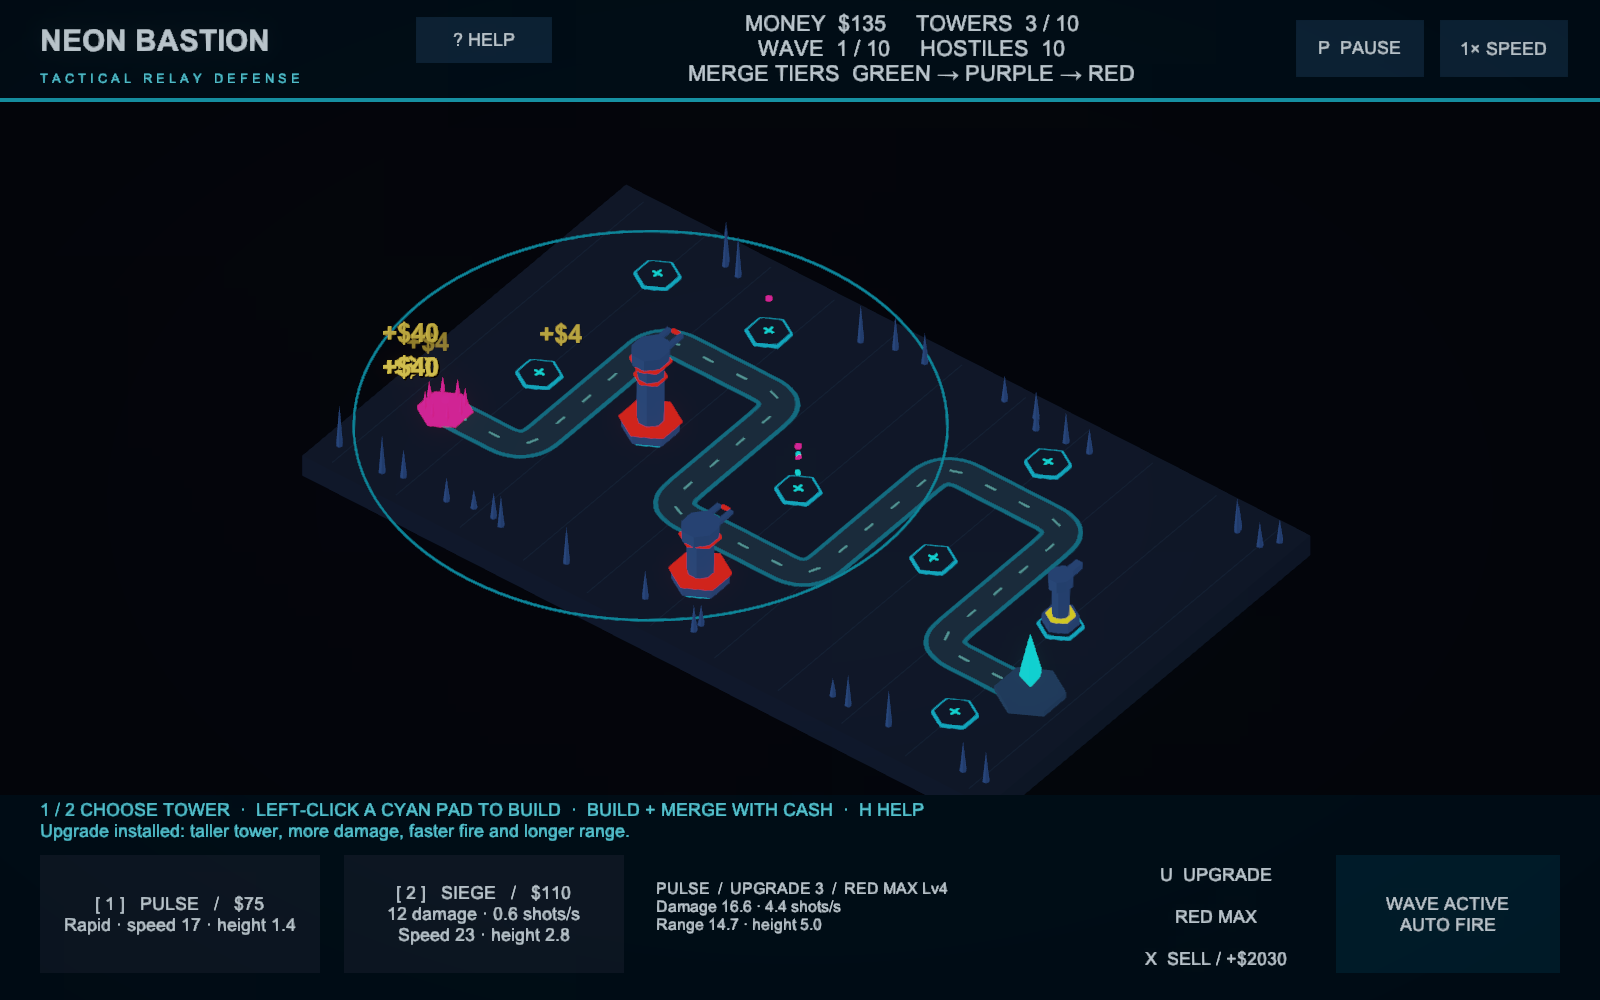
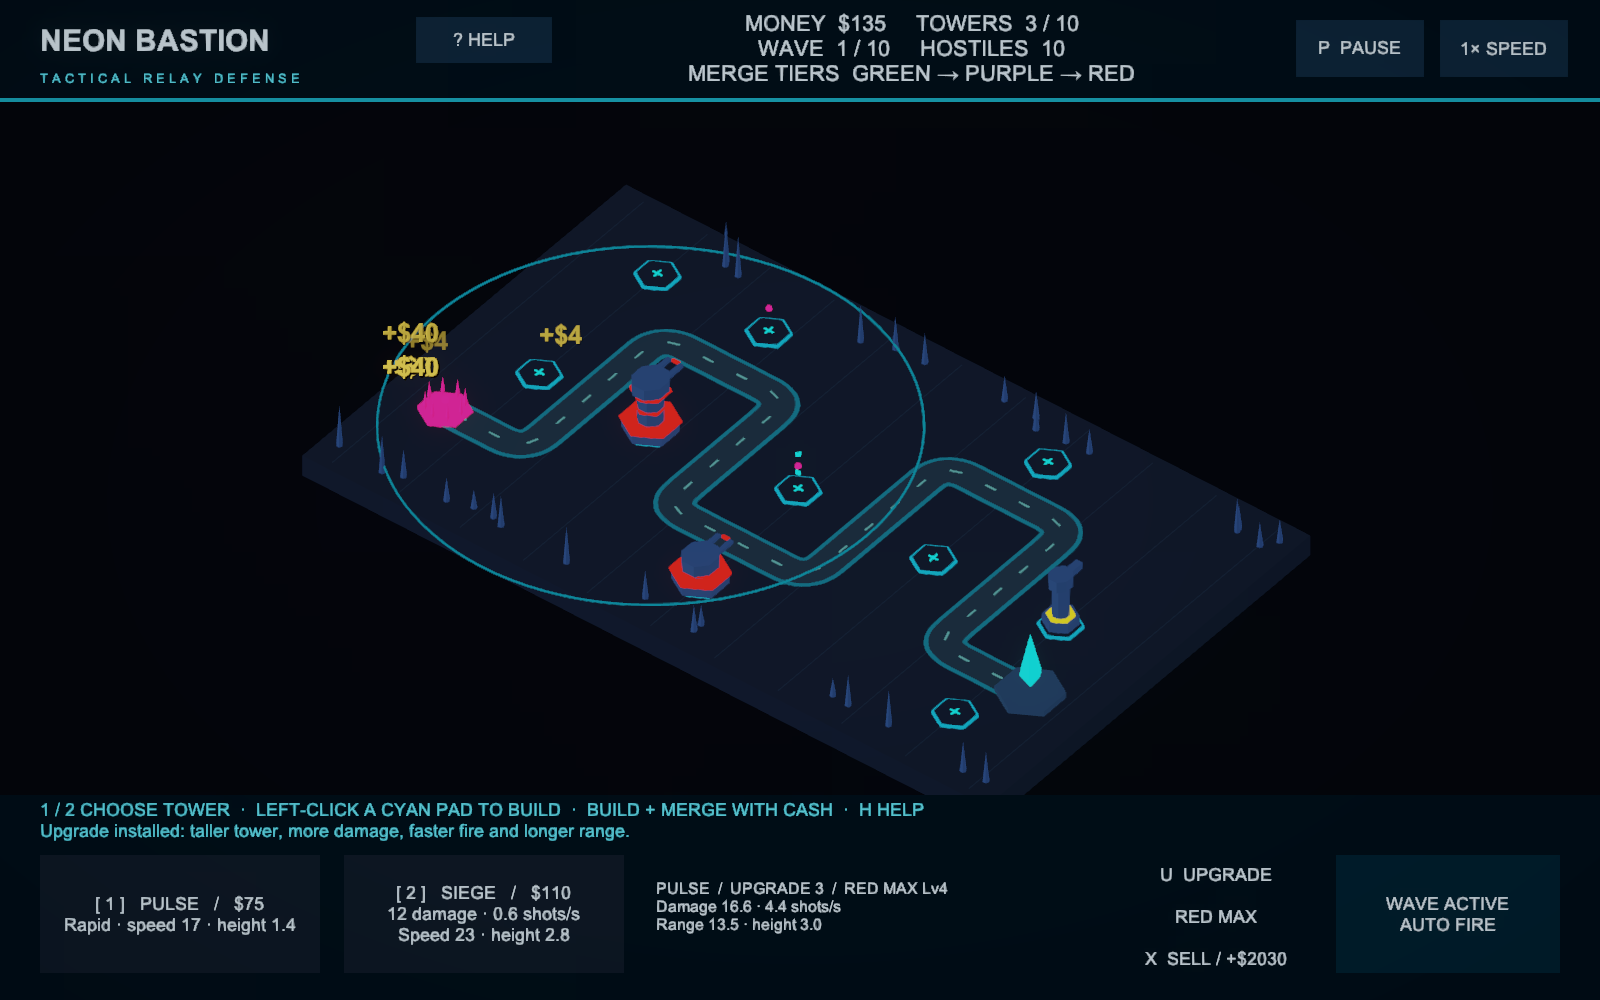
Keep merge growth horizontal and increase range five percent per tier

diff --git a/Assets/Defense/Editor/DefenseValidation.cs b/Assets/Defense/Editor/DefenseValidation.cs
@@ -289,6 +289,12 @@ public static class DefenseValidation
     private static void CheckTier(DefenseTower tower,int level,int units)
     {
         Color actual=tower.transform.Find("Fusion ring").GetComponent<MeshRenderer>().sharedMaterial.GetColor("_BaseColor");
+        float expectedHeight=1.4f+.8f*(tower.Level-1);
+        float baseRange=10.5f+.6f*(tower.Level-1);
+        Check(Mathf.Abs(tower.Height-expectedHeight)<.001f && Mathf.Abs(tower.Muzzle.parent.localPosition.y-expectedHeight)<.001f && tower.transform.localScale.y==1,
+            "Merge tier "+level+" preserves paid-upgrade height and muzzle elevation");
+        Check(Mathf.Abs(tower.Range-baseRange*Mathf.Pow(1.05f,level-1))<.001f && tower.transform.localScale.x>1 && tower.transform.localScale.z>1,
+            "Merge tier "+level+" widens the model and compounds range by 5 percent per merge");
         Check(tower.MergeLevel==level && tower.MergedUnits==units && Vector4.Distance(actual,DefenseTower.FusionColor(level))<.01f,
             "Merge level "+level+" has the correct color and "+units+" represented units");
     }
@@ -318,7 +324,7 @@ public static class DefenseValidation
         Check(game.Towers.Count==count-1 && !game.Towers.Contains(source) && target.PadIndex==1,"Merge consumes source and retains destination pad");
         Check(target.Level==2 && target.Investment==investment && game.Credits==money-50,"Green merge costs exactly $50 and retains paid upgrades and investment");
         CheckTier(target,2,2);
-        Check(target.Height>height && target.Damage>damage && target.FireRate>rate && target.Range>range && target.transform.localScale.x>1,"Merge grows real geometry and raises combat stats");
+        Check(Mathf.Abs(target.Height-height)<.001f && target.Damage>damage && target.FireRate>rate && Mathf.Abs(target.Range-range*1.05f)<.001f && target.transform.localScale.x>1 && target.transform.localScale.y==1,"Merge adds width and exactly 5 percent range without adding height");
         game.Choose(TowerKind.Pulse);Check(game.TryPlaceAt(game.Pads[3]),"Buying immediately after a merge in the same wave is allowed");
         DefenseTower third=game.SelectedTower;
         money=game.Credits;
@@ -335,7 +341,10 @@ public static class DefenseValidation
         money=game.Credits;count=game.Towers.Count;
         Check(!game.TryMergeTowers(otherRed,target) && game.Credits==money && game.Towers.Count==count,"Red plus red is rejected without spending or consuming towers");
         Check(target.UpgradeCost==1600,"Eight-unit merged tower scales the next paid upgrade cost");
-        FixtureFunds(target.UpgradeCost);game.SelectTower(target);game.UpgradeSelected();
+        FixtureFunds(target.UpgradeCost);game.SelectTower(target);
+        float beforeHeight=target.Height,beforeWidth=target.transform.localScale.x;
+        game.UpgradeSelected();
+        Check(Mathf.Abs(target.Height-beforeHeight-.8f)<.001f && target.transform.localScale.x==beforeWidth,"Paid upgrade adds height while preserving merged width");
         Check(target.Level==3 && target.MergeLevel==4,"Paid upgrades remain separate from capped merge levels");
         Ray ray=game.View.ScreenPointToRay(game.View.WorldToScreenPoint(target.transform.position+Vector3.up*target.Height));
         Check(game.Merging.PickTower(ray,target.transform.position)==target,"Tall red tower can be picked by its model");

diff --git a/Assets/Defense/DefenseHUD.cs b/Assets/Defense/DefenseHUD.cs
@@ -25,7 +25,7 @@ public class DefenseHUD : MonoBehaviour
         "Move the pointer over a glowing CYAN HEXAGON on the board.\nLEFT-CLICK the pad to place your selected tower.\n\nBuild and merge as often as you can afford. There is no per-wave action limit.\nRoads, unmarked ground and occupied pads cannot take a new tower.\n\nPress SPACE or LAUNCH WAVE when your defense is ready.\nKeep enough cash for both coverage and upgrades.",
         "Every defeated enemy immediately adds cash to MONEY at the top.\nWatch for the gold +$ reward above the enemy.\n\nScout $4  /  Runner $5  /  Motorcycle $6\nArmored $8  /  Siege $30  /  Truck $40\n\nSave cash to buy your next wave's tower or improve an existing one.\nUnspent money carries over. There is no free wave-clear bonus.",
         "LEFT-CLICK a placed tower to select it and see its range and stats.\nClick UPGRADE or press U when you can afford it.\n\nLevel 2 costs $100. Level 3 costs $200.\nMerged towers multiply these costs by their combined tower count.\nEach upgrade adds damage, firing speed, range and 0.8 units of height.\n\nA $75 Pulse leaves $35. Wave 1 pays $40 —\nsave for another tower before spending on upgrades!",
-        "HOLD left mouse on a tower.\nDRAG onto SAME TYPE + MERGE LEVEL\nand RELEASE. M / MERGE also works.\n\nLv1 + Lv1 → GREEN Lv2 ($50)\nLv2 + Lv2 → PURPLE Lv3 ($100)\nLv3 + Lv3 → RED Lv4 ($200)\nRED is the final merge tier.\n\nBuy AND merge in the same wave.\nYour MONEY is the limit. Bad drops\ncost nothing. Paid upgrades stay separate."
+        "HOLD left mouse on a tower.\nDRAG onto SAME TYPE + MERGE LEVEL\nand RELEASE. M / MERGE also works.\n\nLv1 + Lv1 → GREEN Lv2 ($50)\nLv2 + Lv2 → PURPLE Lv3 ($100)\nLv3 + Lv3 → RED Lv4 ($200)\nRED is the final merge tier.\n\nBuy AND merge in the same wave.\nYour MONEY is the limit. Bad drops\ncost nothing. Merges widen + add 5% range.\nOnly paid upgrades add height."
 
     };
     private readonly Color accent=new Color(.35f,.9f,1f);

diff --git a/Assets/Defense/DefenseMergeDemo.cs b/Assets/Defense/DefenseMergeDemo.cs
@@ -67,12 +67,12 @@ public class DefenseMergeDemo : MonoBehaviour
         target.localPosition=new Vector3(2.25f,0,0);
         target.localScale=new Vector3(1+.18f*(step+grow),1,1+.18f*(step+grow));
         source.localScale=new Vector3(1+.18f*step,1,1+.18f*step);
-        DefenseArt.RaiseTower(source,sourceGimbal,TowerKind.Pulse,1.4f+.65f*step,1);
+        DefenseArt.RaiseTower(source,sourceGimbal,TowerKind.Pulse,1.4f,1);
         DefenseArt.MarkFusion(source,DefenseTower.FusionColor(inputLevel));
         source.Find("Fusion ring").gameObject.SetActive(inputLevel>1);
         source.Find("Fusion beacon").gameObject.SetActive(inputLevel>1);
         DefenseArt.MarkFusion(target,DefenseTower.FusionColor(ExampleMergeLevel));
-        DefenseArt.RaiseTower(target,targetGimbal,TowerKind.Pulse,1.4f+.65f*(step+grow),1);
+        DefenseArt.RaiseTower(target,targetGimbal,TowerKind.Pulse,1.4f,1);
         target.Find("Fusion ring").gameObject.SetActive(ExampleMergeLevel>1);
         target.Find("Fusion beacon").gameObject.SetActive(ExampleMergeLevel>1);
         phaseLabel.text=phase<1.4f ? "AUTO DEMO 1: HOLD LEFT MOUSE" : phase<3.4f ? "AUTO DEMO 2: DRAG ONTO MATCHING PULSE" : "RELEASE → "+(ExampleMergeLevel==2 ? "GREEN" : ExampleMergeLevel==3 ? "PURPLE" : "RED MAX");

diff --git a/Assets/Defense/DefenseTower.cs b/Assets/Defense/DefenseTower.cs
@@ -29,8 +29,8 @@ public class DefenseTower : MonoBehaviour
     }
     public float FireRate => (Kind==TowerKind.Pulse ? 2.4f : .6f)*(1f+.2f*(Level-1))*(1f+.1f*FusionBonus);
     public float ProjectileSpeed => Kind==TowerKind.Pulse ? 17f : 23f;
-    public float Height => (Kind==TowerKind.Pulse ? 1.4f : 2.8f)+.8f*(Level-1)+.65f*FusionBonus;
-    public float Range => (Kind==TowerKind.Pulse ? 10.5f : 14f)+.6f*(Level-1)+Mathf.Min(3f,.6f*(MergedUnits-1));
+    public float Height => (Kind==TowerKind.Pulse ? 1.4f : 2.8f)+.8f*(Level-1);
+    public float Range => ((Kind==TowerKind.Pulse ? 10.5f : 14f)+.6f*(Level-1))*Mathf.Pow(1.05f,FusionBonus);
     public float Damage => (Kind==TowerKind.Pulse ? 1.15f : 12f)*(1f+.4f*(Level-1))*MergedUnits;
     public int UpgradeCost => 100*Level*MergedUnits;
     public int ShotsFired { get; private set; }

diff --git a/README.md b/README.md
@@ -43,7 +43,7 @@ Begin with a Pulse on the gold **START HERE** pad. Wave 1 contains ten slow 3-HP
 
 ## Quick tutorial and placement overlay
 
-The guide explains five steps: choose a Pulse or Siege tower, left-click a cyan hex pad, earn cash from defeated enemies, purchase upgrades, and watch matching placed towers merge in a looping 3D demonstration. The example shows a cursor dragging one actual tower model onto another, the result growing, and example cash decreasing by the merge fee. It lists the tower prices and enemy payouts and gives a concrete example: a $75 Pulse leaves $35; the opening wave earns $40, so saving for another tower matters. It also explains all three colored merge tiers and unrestricted buying with available money and the extra damage, firing speed, range and 0.8-unit height increase from upgrades.
+The guide explains five steps: choose a Pulse or Siege tower, left-click a cyan hex pad, earn cash from defeated enemies, purchase upgrades, and watch matching placed towers merge in a looping 3D demonstration. The example shows a cursor dragging one actual tower model onto another, the result widening without getting taller, and example cash decreasing by the merge fee. It lists the tower prices and enemy payouts and gives a concrete example: a $75 Pulse leaves $35; the opening wave earns $40, so saving for another tower matters. It also explains all three colored merge tiers and unrestricted buying with available money and the extra damage, firing speed, range and 0.8-unit height increase from upgrades.
 
 The guide opens from the title screen and can be reopened with **H** or **? HELP**. Opening it during play pauses the battle. Closing it restores the prior pause state and 1x/2x speed without resetting cash, towers or waves. A persistent textual overlay says **1 / 2 CHOOSE TOWER · LEFT-CLICK A CYAN PAD TO BUILD**, so placement instructions remain available after the guide closes.
 
@@ -76,7 +76,7 @@ Buy two towers, then **hold the left mouse button on one, drag onto the other, a
 
 Red is the final merge tier. Unequal merge levels, mixed Pulse/Siege types, self-merges, and unaffordable merges consume nothing. **Buy and merge repeatedly in the same wave** when you can pay. Merges consume the source, retain the destination pad and higher paid upgrade level, and include the fee in combined investment for selling. Paid upgrade levels (1–3) are separate from merge levels (1–4).
 
-Each tier increases damage, height, fire rate, range and width. Rings, capacitors and muzzle lights show green, purple or red. A red tower requires eight purchased base towers and seven paid merges: total $1,200 for Pulse or $1,480 for Siege before paid upgrades. That investment competes with board coverage and paid upgrades.
+Each merge tier increases damage, fire rate and width, and multiplies range by **1.05** (+5%). Green has +5% range, purple +10.25%, and red about +15.76%, relative to the same paid upgrade level. Merging adds no height; only paid upgrades make towers taller. Rings, capacitors and muzzle lights show green, purple or red. A red tower requires eight purchased base towers and seven paid merges: total $1,200 for Pulse or $1,480 for Siege before paid upgrades. That investment competes with board coverage and paid upgrades.
 
 ![Merged Pulse tower — focused mechanic demonstration](MERGE_PREVIEW.png)
 

diff --git a/ASSIGNMENT_NOTES.md b/ASSIGNMENT_NOTES.md
@@ -85,11 +85,11 @@ Vehicle graphics are authored by `DefenseArt.Vehicle`. A baked 20-sided wheel me
 
 `CanMerge` requires distinct live towers, matching type and merge level, a tier below red, enough cash, and active unpaused play outside the tutorial. Paid upgrade levels may differ. Base pairs become green level 2 ($50), green pairs become purple level 3 ($100), and purple pairs become red level 4 ($200). `Absorb` doubles represented units, retains the higher paid upgrade level, includes the merge fee in investment, updates geometry and recolors the fusion rings and energy details. Red towers cannot merge further. Invalid drops spend nothing.
 
-Damage is the paid-level damage multiplied by represented units. Fusion also adds 10% fire rate per doubling of units, 0.65 units of height per doubling, 0.6 range per extra unit (capped at +3), and 18% footprint per doubling. Paid upgrades remain capped at level 3 and can still be purchased for a merged tower below that cap. Merge strength comes from consuming existing purchased towers, and charging merge fees.
+Damage is the paid-level damage multiplied by represented units. Fusion also adds 10% fire rate per doubling of units, 5% compounded range per merge tier, and 18% width/depth per tier. Fusion adds no height; only paid upgrades raise the column and muzzle. Paid upgrades remain capped at level 3 and can still be purchased for a merged tower below that cap. Merge strength comes from consuming existing purchased towers, and charging merge fees.
 
 ## Animated example and tougher traffic
 
-The last tutorial page embeds `DefenseMergeDemo`, an isolated visual scene rendered into a UI RawImage. It uses the actual tower geometry and a looping cursor/drag/growth sequence, labels the merge levels and example cash, and has a Replay button. The preview uses a dedicated camera/layer, runs on unscaled time so paused Help still animates, and contains no DefenseTower actors or economy calls. It cannot modify the player's towers or cash.
+The last tutorial page embeds `DefenseMergeDemo`, an isolated visual scene rendered into a UI RawImage. It uses the actual tower geometry and a looping cursor/drag/widening sequence, labels the merge levels and example cash, and has a Replay button. The preview uses a dedicated camera/layer, runs on unscaled time so paused Help still animates, and contains no DefenseTower actors or economy calls. It cannot modify the player's towers or cash.
 
 Traffic now totals 522 enemies, with counts and spawn rates listed in `WAVE_GUIDE.md`. The complete automated run makes eight purchases and two actual merges, ending with six actors representing eight purchased units. Its money audit includes all consumed tower investment and confirms no injected campaign funds.
 

diff --git a/VALIDATION.md b/VALIDATION.md
@@ -1,6 +1,6 @@
 # Validation
 
-The game was compiled and run with Unity **6000.6.0f1** on macOS. The actual-scene validator passed **124 checks**, including a complete ten-wave win with all **522** enemies destroyed.
+The game was compiled and run with Unity **6000.6.0f1** on macOS. The actual-scene validator passed **131 checks**, including a complete ten-wave win with all **522** enemies destroyed.
 
 The campaign strategy begins with the normal $110, places towers on legal pads, buys additional towers and upgrades only when rewards make them affordable, and makes eight purchases and two paid merges across ten waves. It does not add credits, change enemy HP or speed, skip enemies, or apply test damage during the campaign. It accelerates the campaign with Unity time scaling; projectiles and enemies still use the normal fixed physics timestep. The focused tests run separately and intentionally create isolated test situations.
 
@@ -19,7 +19,7 @@ The campaign strategy begins with the normal $110, places towers on legal pads, 
 - Matching drag/drop charges exactly $50/$100/$200, consumes the source, retains the destination, paid upgrades and total investment, and produces the correct green/purple/red tier and color.
 - Buying after merging, merging after buying, and multiple merges in the same wave; cash regulates all purchases.
 - Rejection of unequal tiers, insufficient funds, self-merges, wrong types and any merge beyond red, with no money or tower loss.
-- Larger geometry, increased stats, eight represented units at red, scaled paid upgrade costs, click-to-merge routing and ray selection of tall red geometry.
+- Wider geometry with unchanged height/muzzle elevation, exactly 5% compounded range per merge tier, height growth only from paid upgrades, increased stats, eight represented units at red, scaled paid upgrade costs, click-to-merge routing and ray selection of tall red geometry.
 - Real projectile hits from a merged tower against a moving enemy.
 - Upgrade prices, damage/rate/range growth, actual turret and muzzle height growth, maximum level, insufficient-funds protection, selling refunds, and blocked sell-and-rebuild loopholes.
 - Distinct speed and HP values for all six enemy types, including fast motorcycles and 160-base-HP trucks.
